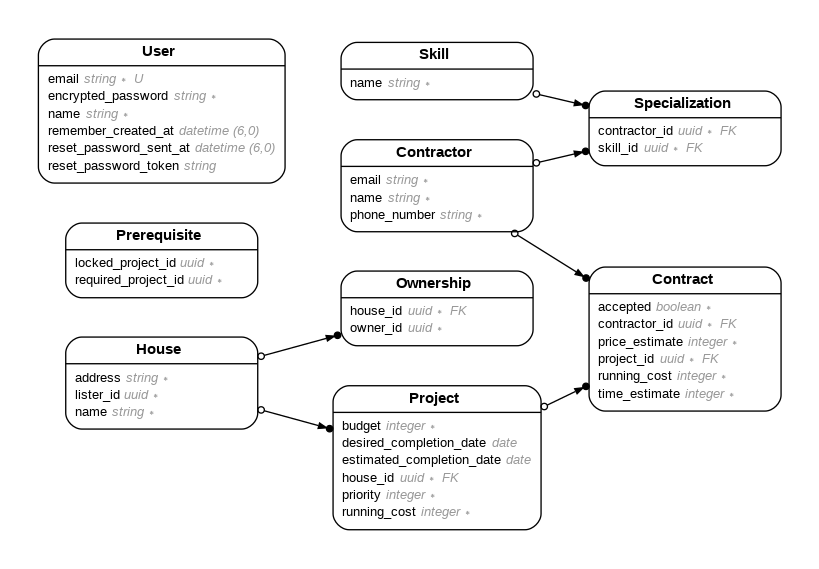
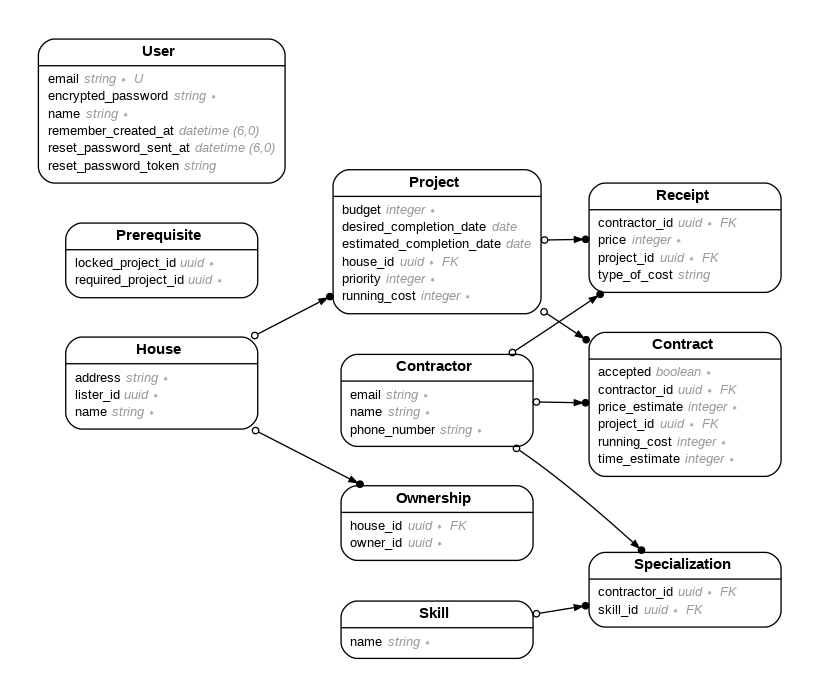
Migrate receipts

Changed region(s): [[0.0305, 0.0299, 0.9768, 0.9561], [0.3968, 0.0598, 0.7021, 0.1793], [0.7021, 0.478, 0.7326, 0.5079]]

diff --git a/db/schema.rb b/db/schema.rb
@@ -10,7 +10,7 @@
 #
 # It's strongly recommended that you check this file into your version control system.
 
-ActiveRecord::Schema[7.1].define(version: 2024_07_22_051157) do
+ActiveRecord::Schema[7.1].define(version: 2024_07_22_052853) do
   # These are extensions that must be enabled in order to support this database
   enable_extension "pgcrypto"
   enable_extension "plpgsql"
@@ -75,6 +75,17 @@ ActiveRecord::Schema[7.1].define(version: 2024_07_22_051157) do
     t.index ["house_id"], name: "index_projects_on_house_id"
   end
 
+  create_table "receipts", id: :uuid, default: -> { "gen_random_uuid()" }, force: :cascade do |t|
+    t.uuid "project_id", null: false
+    t.integer "price", default: 0, null: false
+    t.uuid "contractor_id", null: false
+    t.string "type_of_cost"
+    t.datetime "created_at", null: false
+    t.datetime "updated_at", null: false
+    t.index ["contractor_id"], name: "index_receipts_on_contractor_id"
+    t.index ["project_id"], name: "index_receipts_on_project_id"
+  end
+
   create_table "skills", id: :uuid, default: -> { "gen_random_uuid()" }, force: :cascade do |t|
     t.string "name", default: "", null: false
     t.datetime "created_at", null: false
@@ -111,6 +122,8 @@ ActiveRecord::Schema[7.1].define(version: 2024_07_22_051157) do
   add_foreign_key "prerequisites", "projects", column: "locked_project_id"
   add_foreign_key "prerequisites", "projects", column: "required_project_id"
   add_foreign_key "projects", "houses"
+  add_foreign_key "receipts", "contractors"
+  add_foreign_key "receipts", "projects"
   add_foreign_key "specializations", "contractors"
   add_foreign_key "specializations", "skills"
 end

diff --git a/app/models/receipt.rb b/app/models/receipt.rb
@@ -1,3 +1,25 @@
+# == Schema Information
+#
+# Table name: receipts
+#
+#  id            :uuid             not null, primary key
+#  price         :integer          default(0), not null
+#  type_of_cost  :string
+#  created_at    :datetime         not null
+#  updated_at    :datetime         not null
+#  contractor_id :uuid             not null
+#  project_id    :uuid             not null
+#
+# Indexes
+#
+#  index_receipts_on_contractor_id  (contractor_id)
+#  index_receipts_on_project_id     (project_id)
+#
+# Foreign Keys
+#
+#  fk_rails_...  (contractor_id => contractors.id)
+#  fk_rails_...  (project_id => projects.id)
+#
 class Receipt < ApplicationRecord
   belongs_to :project
   belongs_to :contractor

diff --git a/spec/models/receipt_spec.rb b/spec/models/receipt_spec.rb
@@ -1,3 +1,25 @@
+# == Schema Information
+#
+# Table name: receipts
+#
+#  id            :uuid             not null, primary key
+#  price         :integer          default(0), not null
+#  type_of_cost  :string
+#  created_at    :datetime         not null
+#  updated_at    :datetime         not null
+#  contractor_id :uuid             not null
+#  project_id    :uuid             not null
+#
+# Indexes
+#
+#  index_receipts_on_contractor_id  (contractor_id)
+#  index_receipts_on_project_id     (project_id)
+#
+# Foreign Keys
+#
+#  fk_rails_...  (contractor_id => contractors.id)
+#  fk_rails_...  (project_id => projects.id)
+#
 require 'rails_helper'
 
 RSpec.describe Receipt, type: :model do
